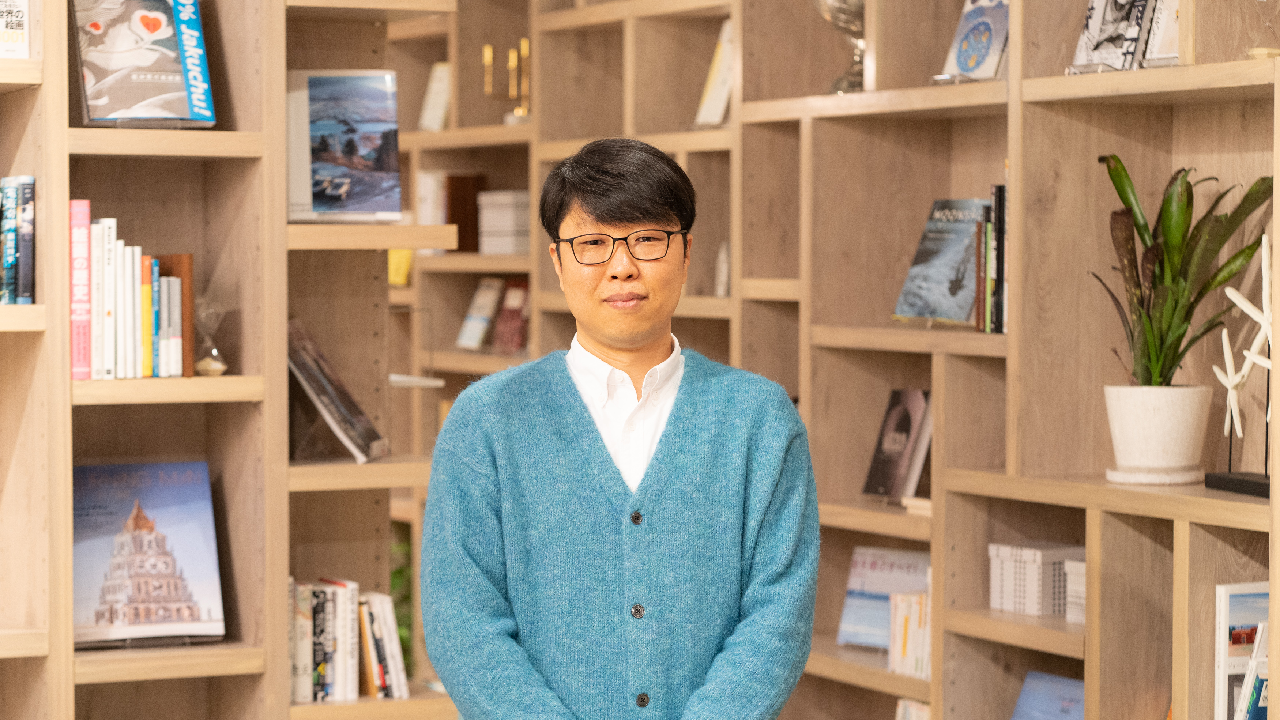
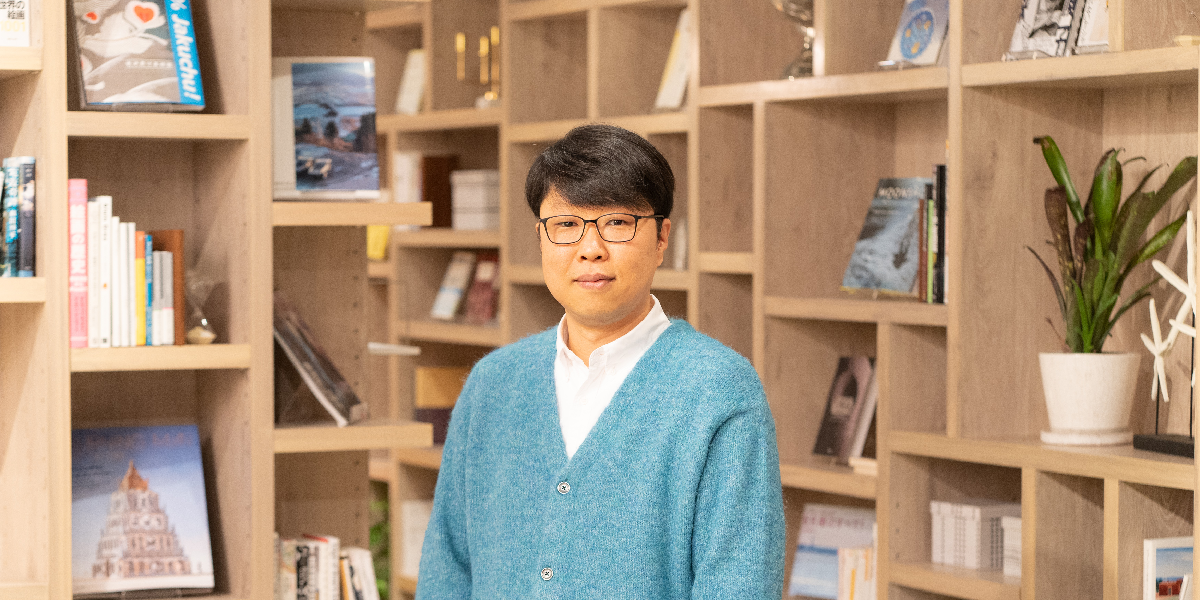
Update Page

diff --git a/app/about/page.jsx b/app/about/page.jsx
@@ -145,15 +145,13 @@ export default function AboutPage() {
   }
 
   return (
-    <div
-        className={`min-h-screen transition-colors duration-500 bg-gradient-light}`}
-      >
+    <div className={`min-h-screen transition-colors duration-500 bg-gradient-light`}>
       <ScrollProgress color={"hsl(var(--primary-color))"} />
       <Navbar />
 
       {/* 히어로 섹션 */}
       <ParallaxHero
-        imageUrl="/images/about-top.png?height=720&width=1280"
+        imageUrl="/images/about-top.png?height=600&width=1200"
         title={t("about.title")}
         subtitle={t("about.subtitle")}
         height="30vh"

diff --git a/app/portfolio/[id]/page.jsx b/app/portfolio/[id]/page.jsx
@@ -513,7 +513,7 @@ export default function PortfolioDetailPage({ params }) {
   }
 
   return (
-    <div className="min-h-screen bg-gradient-to-br from-white to-gray-50 dark:from-gray-900 dark:to-gray-800">
+    <div className="min-h-screen bg-gradient-light from-white to-gray-50 dark:from-gray-900 dark:to-gray-800">
       <ScrollProgress color="var(--color-primary)" />
       <Navbar />
 

diff --git a/app/portfolio/page.jsx b/app/portfolio/page.jsx
@@ -173,9 +173,7 @@ export default function PortfolioPage() {
 
   return (
     <PageTransition>
-      <div
-        className={`min-h-screen transition-colors duration-500 bg-gradient-light`}
-      >
+      <div className={`min-h-screen transition-colors duration-500 bg-gradient-light`}>
         <ScrollProgress color={"hsl(var(--primary-color))"} />
         <Navbar />
 
